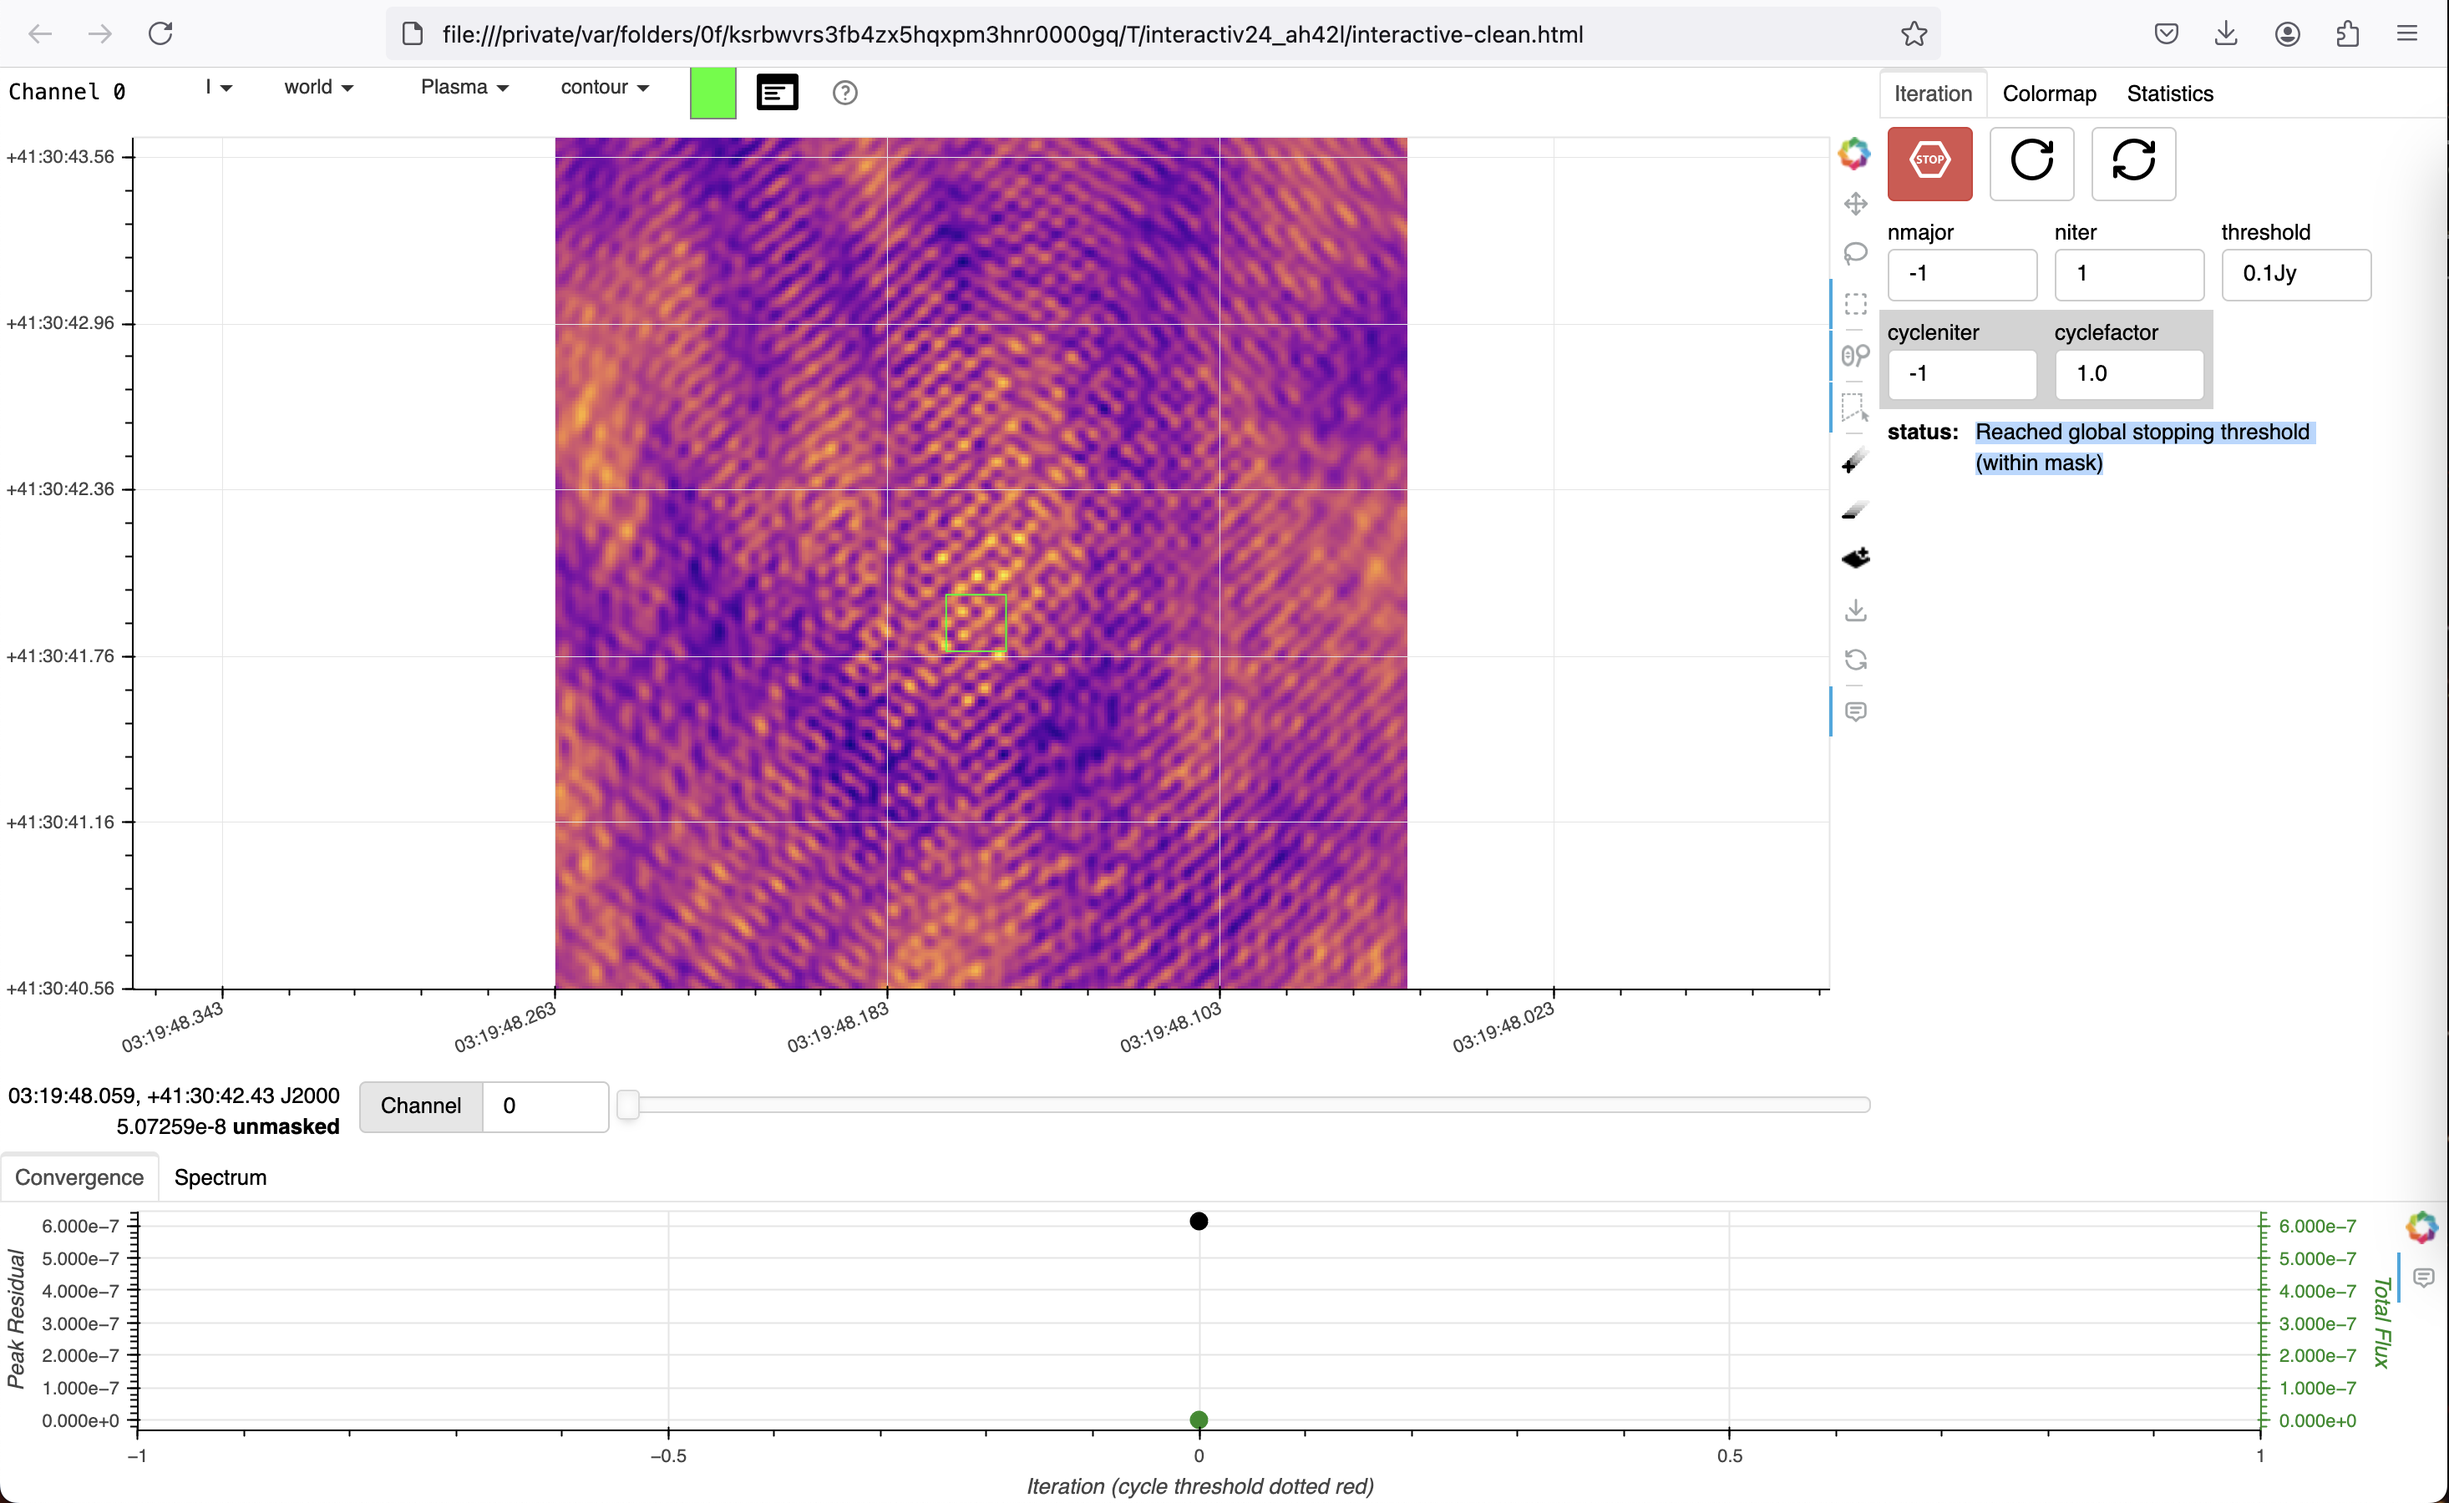
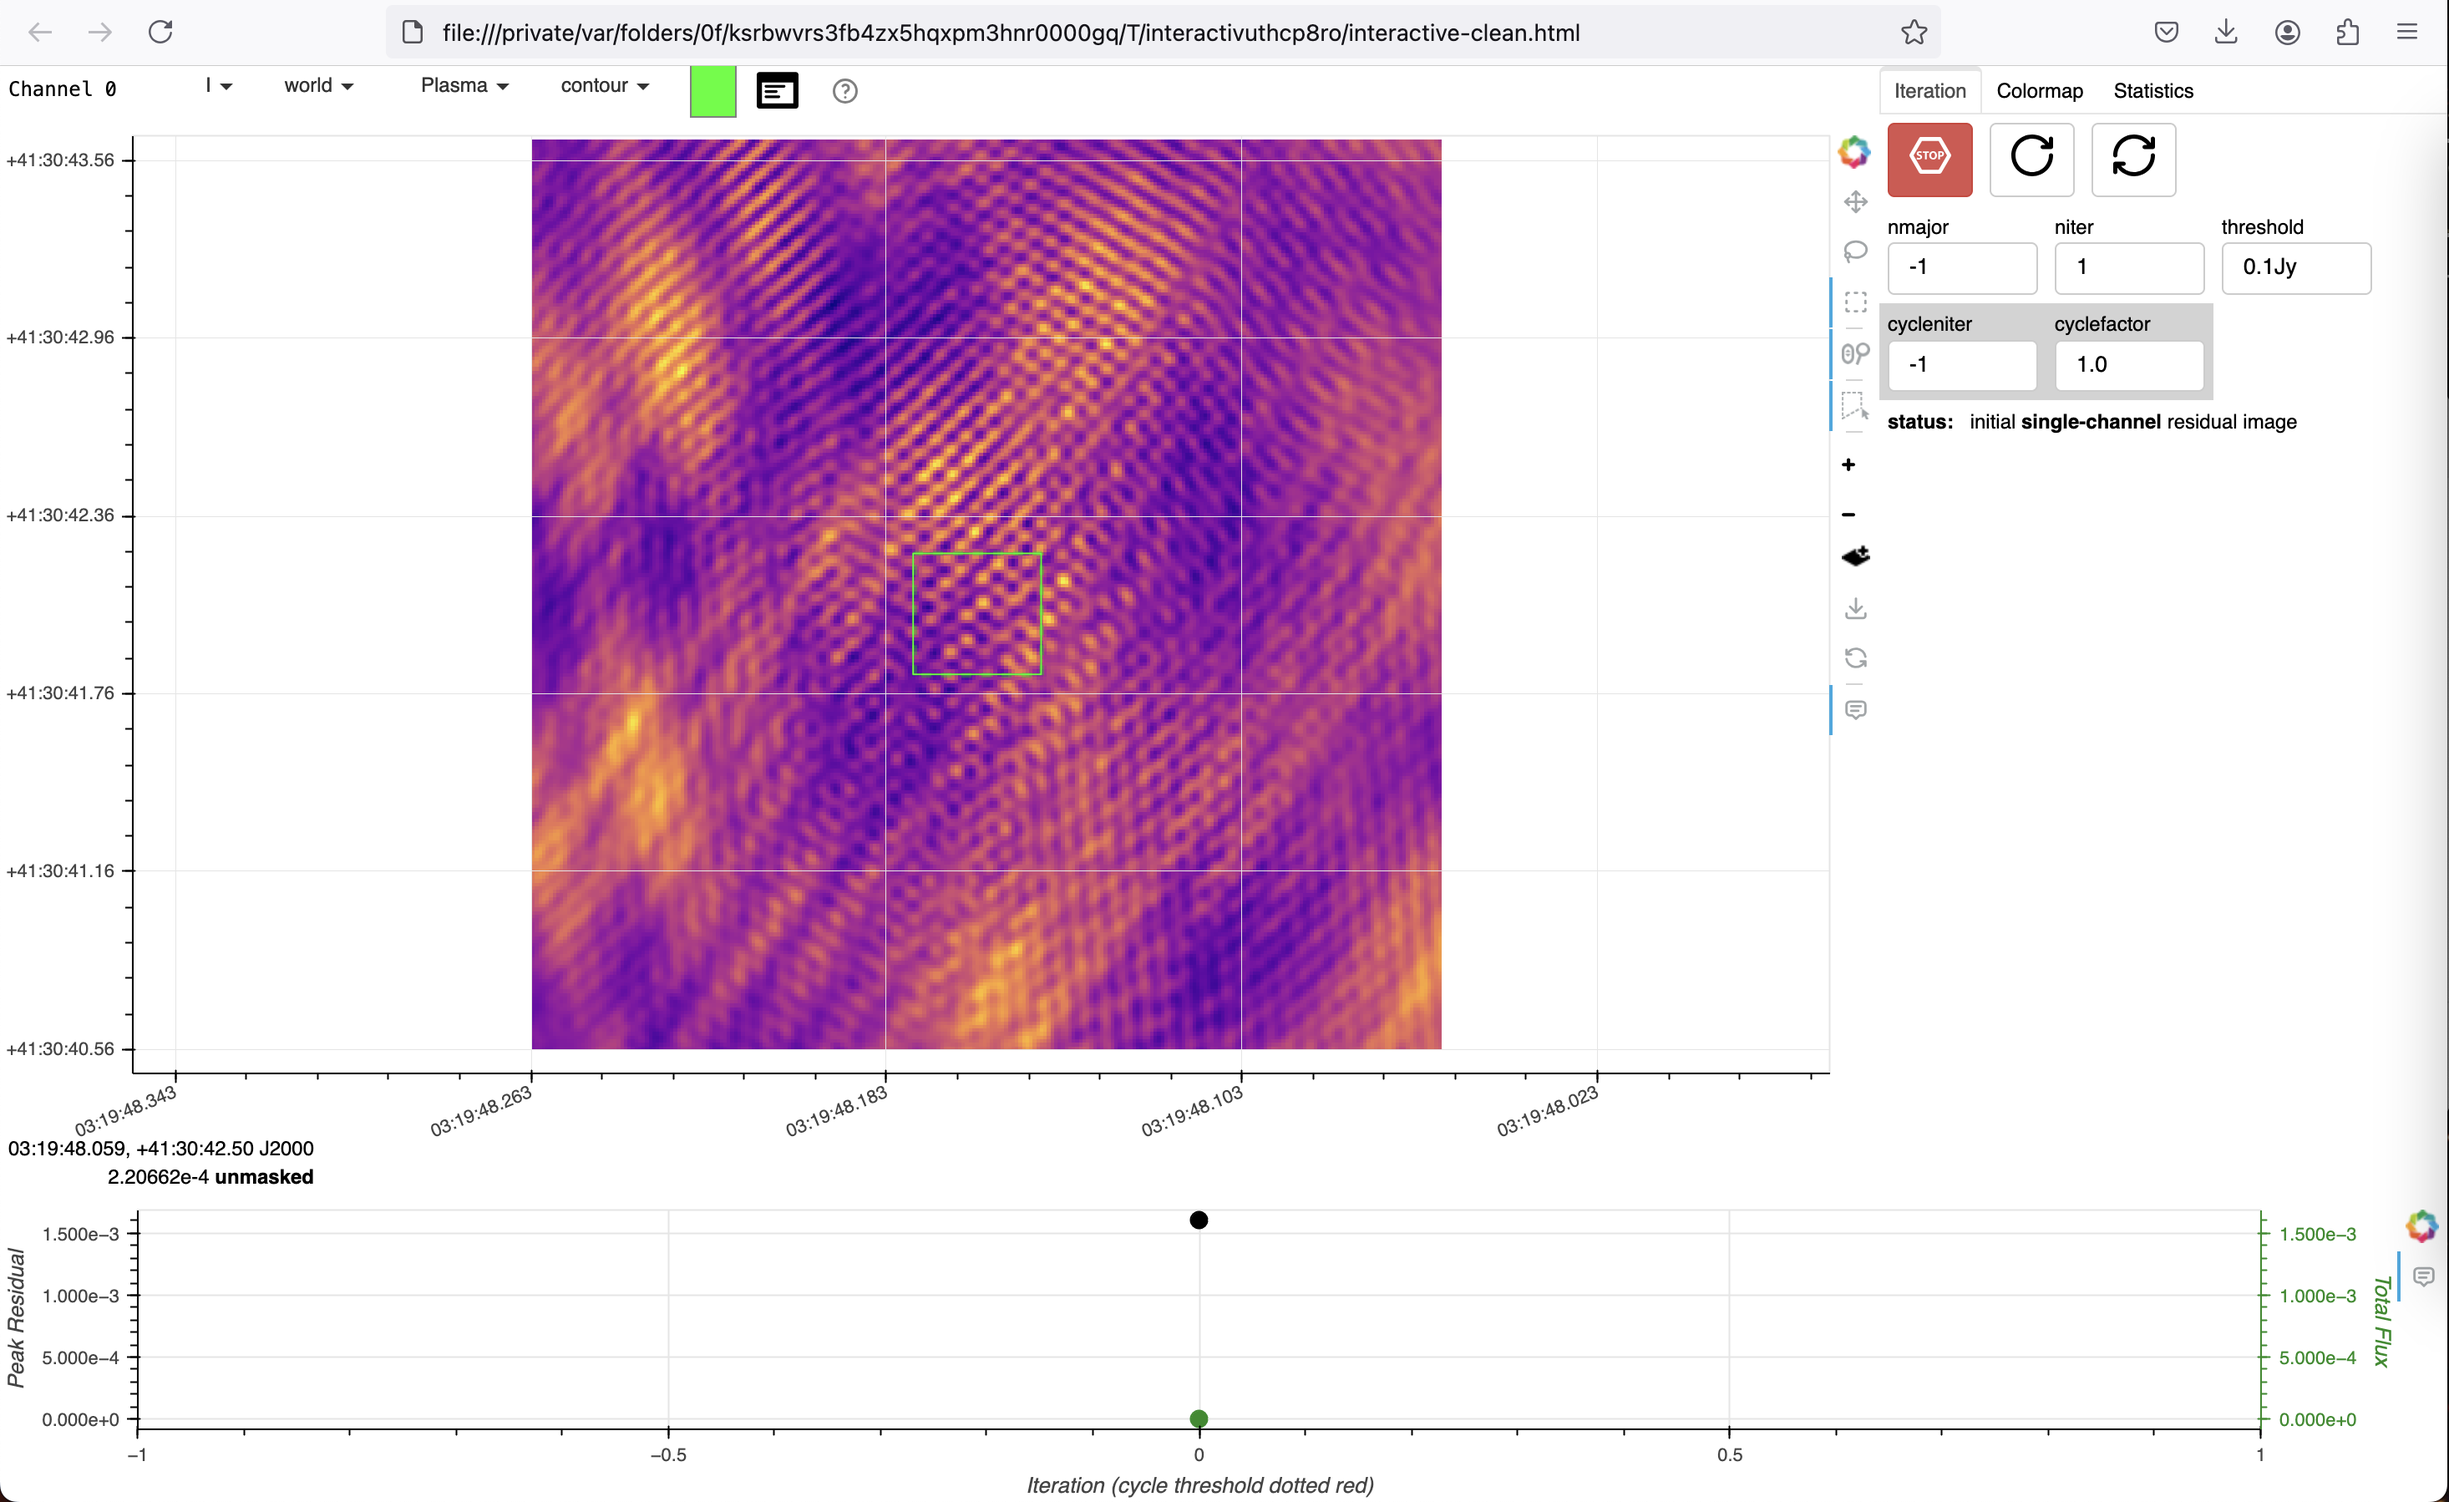
test

diff --git a/casatest.html b/casatest.html
@@ -92,7 +92,7 @@ onload = function(){
 											<li>
 												Next we wish to test the casagui, which is used to do interactive cleaning. Return to your CASA prompt/terminal and copy the following commands.
 												<pre><code class="language-python">from casagui.apps import run_iclean
-run_iclean(vis='all_avg.ms',imagename='test_casa',spw='0', niter=1, cell='0.012arcsec',imsize=[256,256],field='0319+4130')	</code></pre></li>
+run_iclean(vis='all_avg.ms',imagename='test_casa',spw='0',specmode='mfs', niter=1, cell='0.012arcsec',imsize=[256,256],field='0319+4130')	</code></pre></li>
 											<li>If it works properly, you should have a web browser session that looks similar to the figure below.</li>
 											<li>Left click on the box select and drag a box across the image and press <code class="language-python">a</code> to make it a region (as shown in the green box below)</li>
 											<li>Press the circular arrow to check that cleaning is working properly. The status should state 'Reached global stopping threshold (within mask)'</li>
